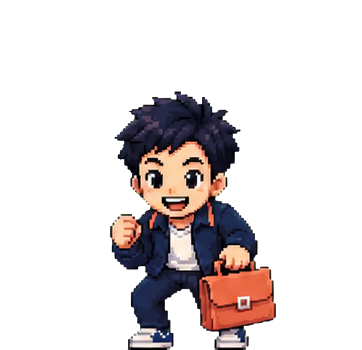
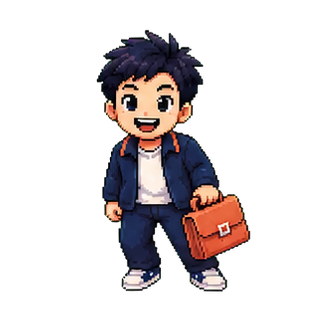
Rebuild interview day dance sequence

Changed region(s): [[0.2885, 0.0865, 0.8077, 1.0]]

diff --git a/frontend/src/main.jsx b/frontend/src/main.jsx
@@ -73,7 +73,7 @@ const JOB_BRIEF_CACHE_KEY = "interviewprep_job_briefs";
 const JOB_BRIEF_CACHE_VERSION = 2;
 const JOB_BRIEF_QA_CACHE_KEY = "interviewprep_job_brief_questions";
 const INTERVIEW_DANCE_FRAMES = Array.from(
-  { length: 12 },
+  { length: 16 },
   (_, index) => `/interview-day-dance/frame-${String(index + 1).padStart(2, "0")}.png`,
 );
 const INTERVIEW_CELEBRATION_CONFETTI = [
@@ -5159,7 +5159,7 @@ function InterviewDayPanel({ plan, allDone, allTasks }) {
 
     const intervalId = window.setInterval(() => {
       setDanceFrame((currentFrame) => (currentFrame + 1) % INTERVIEW_DANCE_FRAMES.length);
-    }, 150);
+    }, 120);
     return () => window.clearInterval(intervalId);
   }, [planComplete]);
 

diff --git a/frontend/src/approved-guided.css b/frontend/src/approved-guided.css
@@ -1805,7 +1805,7 @@
   position: relative;
   z-index: 1;
   width: min(232px, 90%);
-  aspect-ratio: 362 / 350;
+  aspect-ratio: 1;
 }
 
 .guided-interview-dance img {
